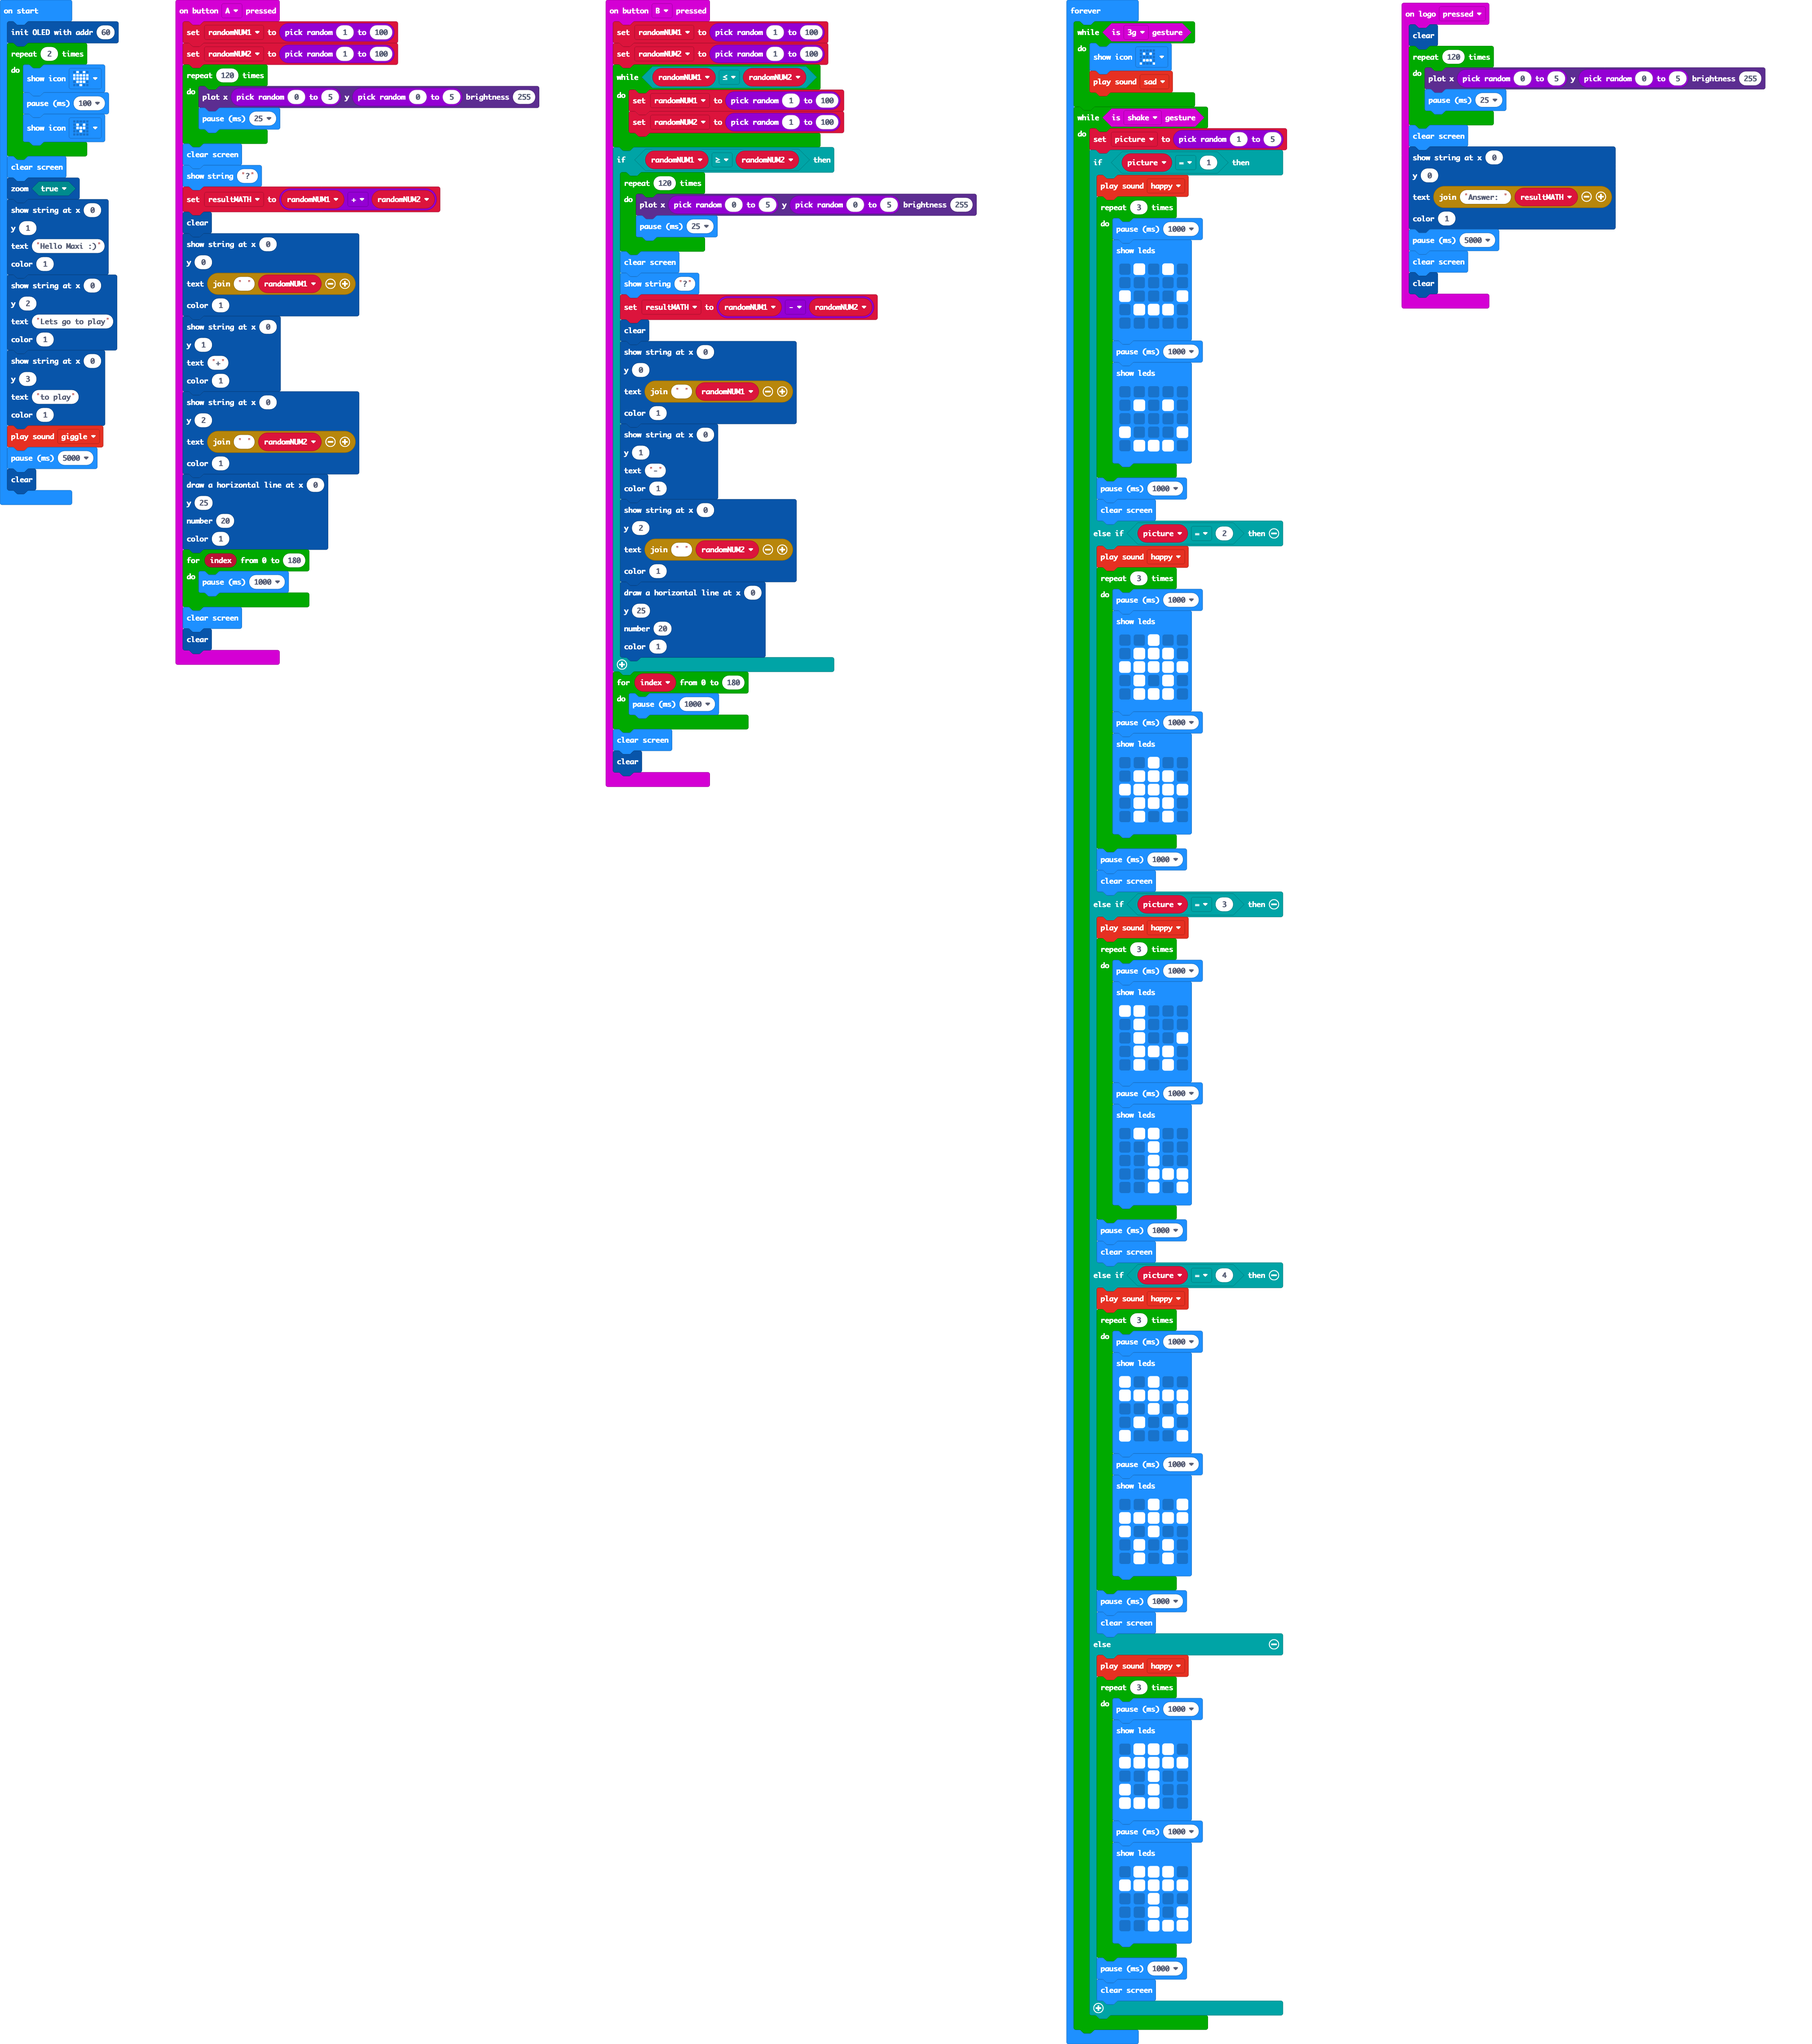
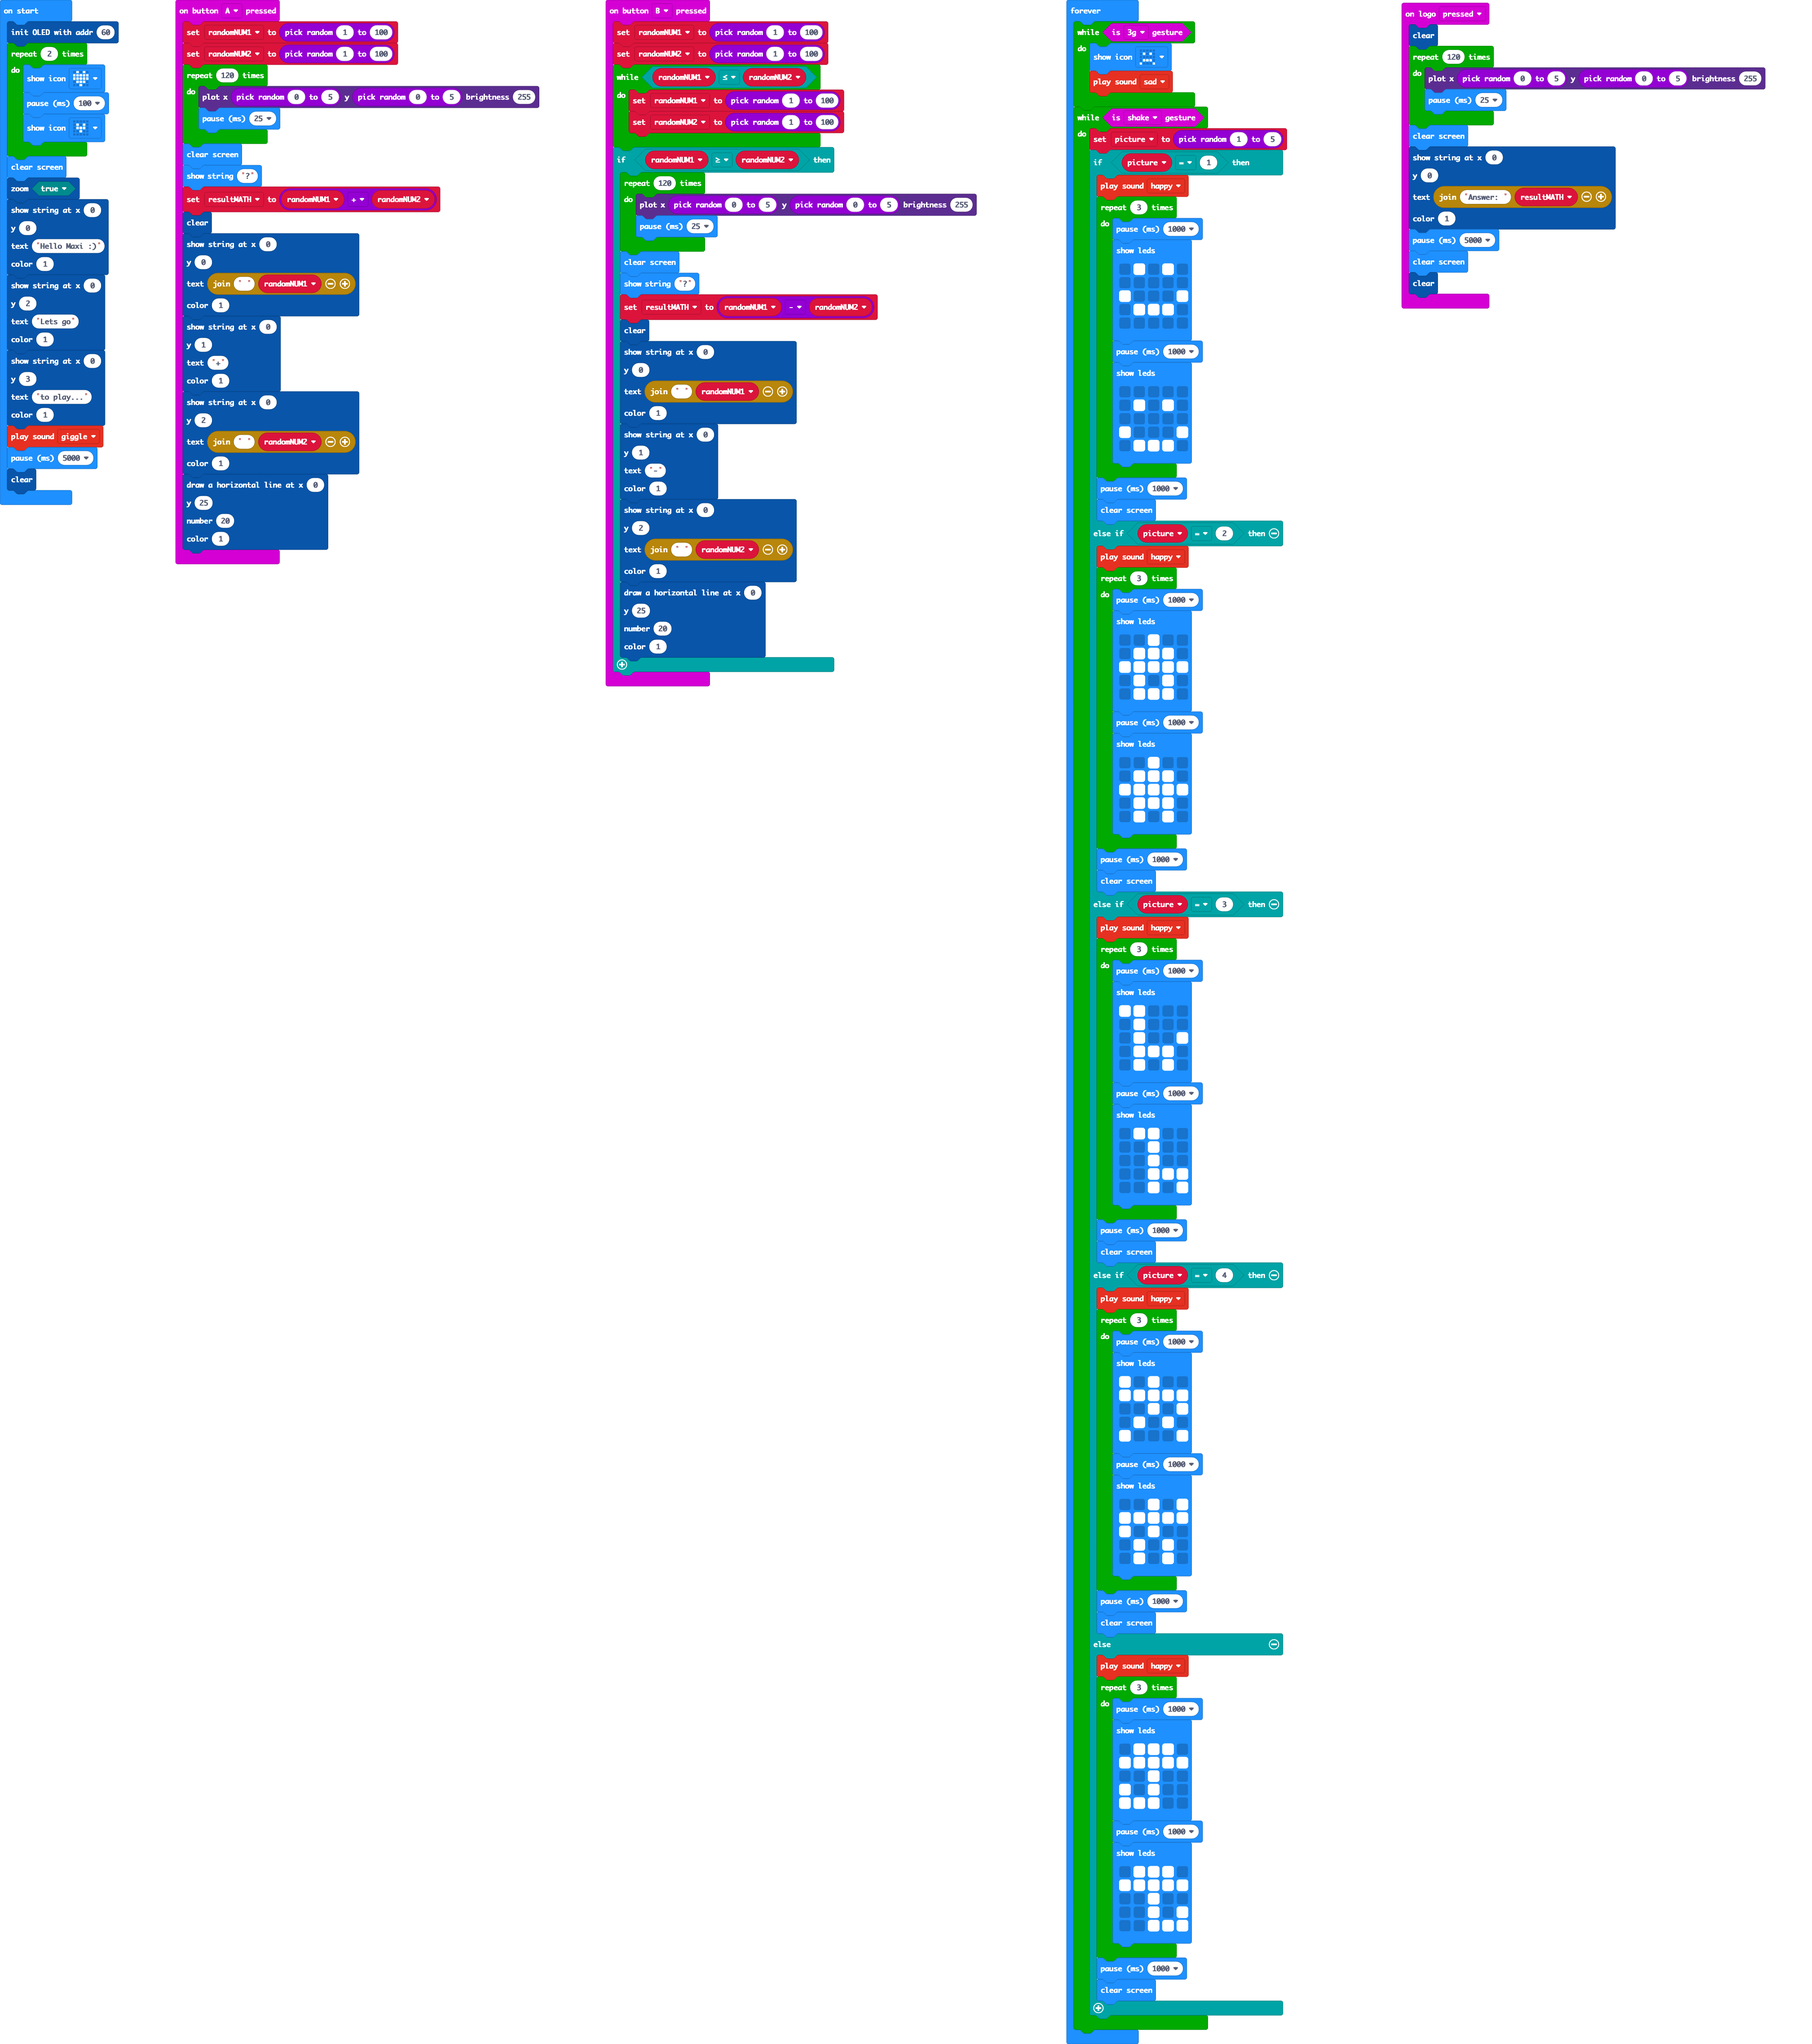
Update main.blocks, main.ts

Changed region(s): [[0.3123, 0.312, 0.4059, 0.4055], [0.0937, 0.2496, 0.1874, 0.3431], [0.0312, 0.1248, 0.0625, 0.1872]]

diff --git a/main.ts b/main.ts
@@ -33,11 +33,6 @@ input.onButtonPressed(Button.A, function () {
     20,
     1
     )
-    for (let index = 0; index <= 180; index++) {
-        basic.pause(1000)
-    }
-    basic.clearScreen()
-    OLED12864_I2C.clear()
 })
 input.onButtonPressed(Button.B, function () {
     randomNUM1 = randint(1, 100)
@@ -80,11 +75,6 @@ input.onButtonPressed(Button.B, function () {
         1
         )
     }
-    for (let index = 0; index <= 180; index++) {
-        basic.pause(1000)
-    }
-    basic.clearScreen()
-    OLED12864_I2C.clear()
 })
 input.onLogoEvent(TouchButtonEvent.Pressed, function () {
     OLED12864_I2C.clear()
@@ -117,20 +107,20 @@ basic.clearScreen()
 OLED12864_I2C.zoom(true)
 OLED12864_I2C.showString(
 0,
-1,
+0,
 "Hello Maxi :)",
 1
 )
 OLED12864_I2C.showString(
 0,
 2,
-"Lets go to play",
+"Lets go",
 1
 )
 OLED12864_I2C.showString(
 0,
 3,
-"to play",
+"to play...",
 1
 )
 soundExpression.giggle.play()
